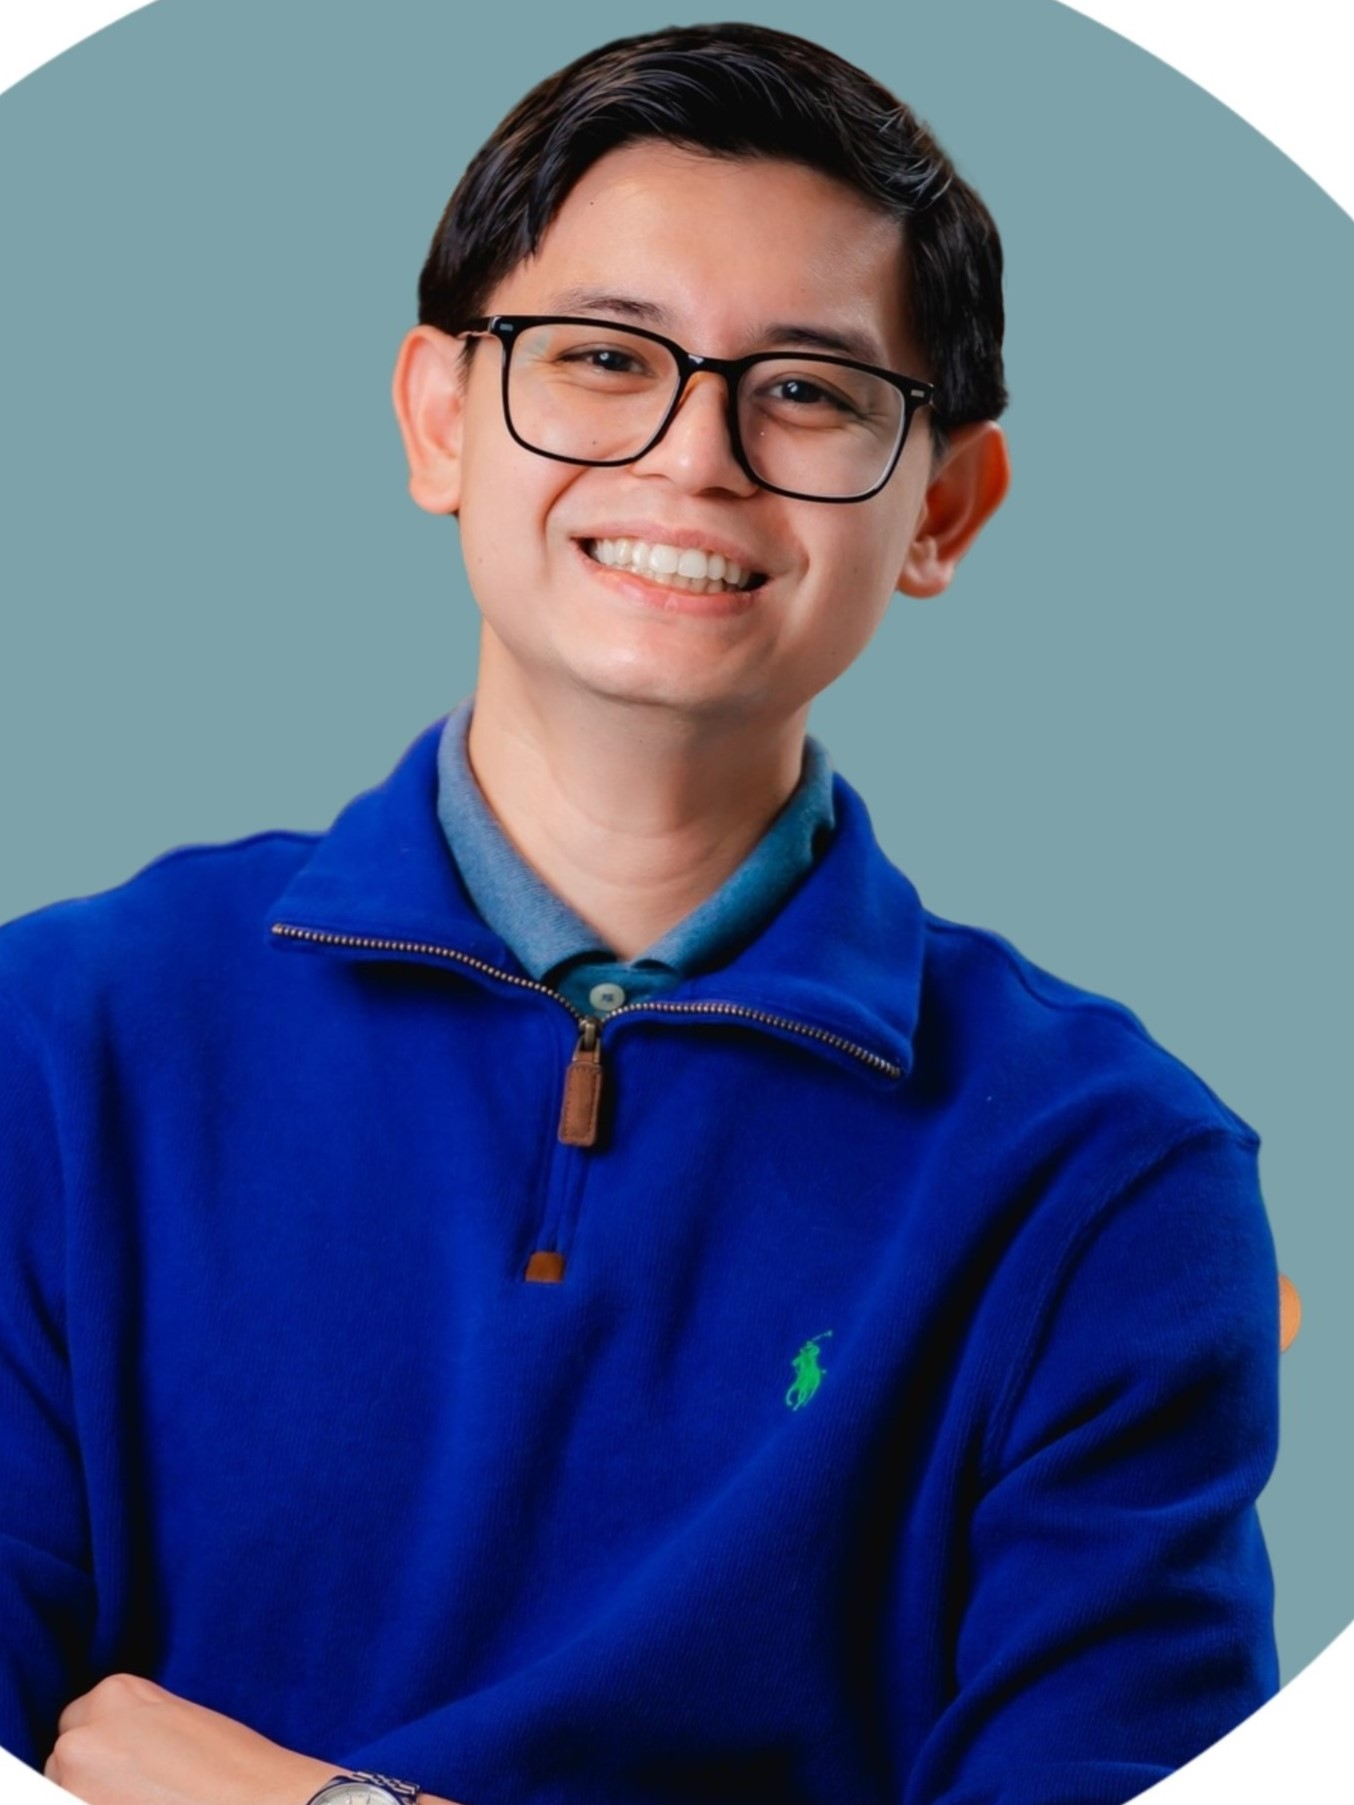
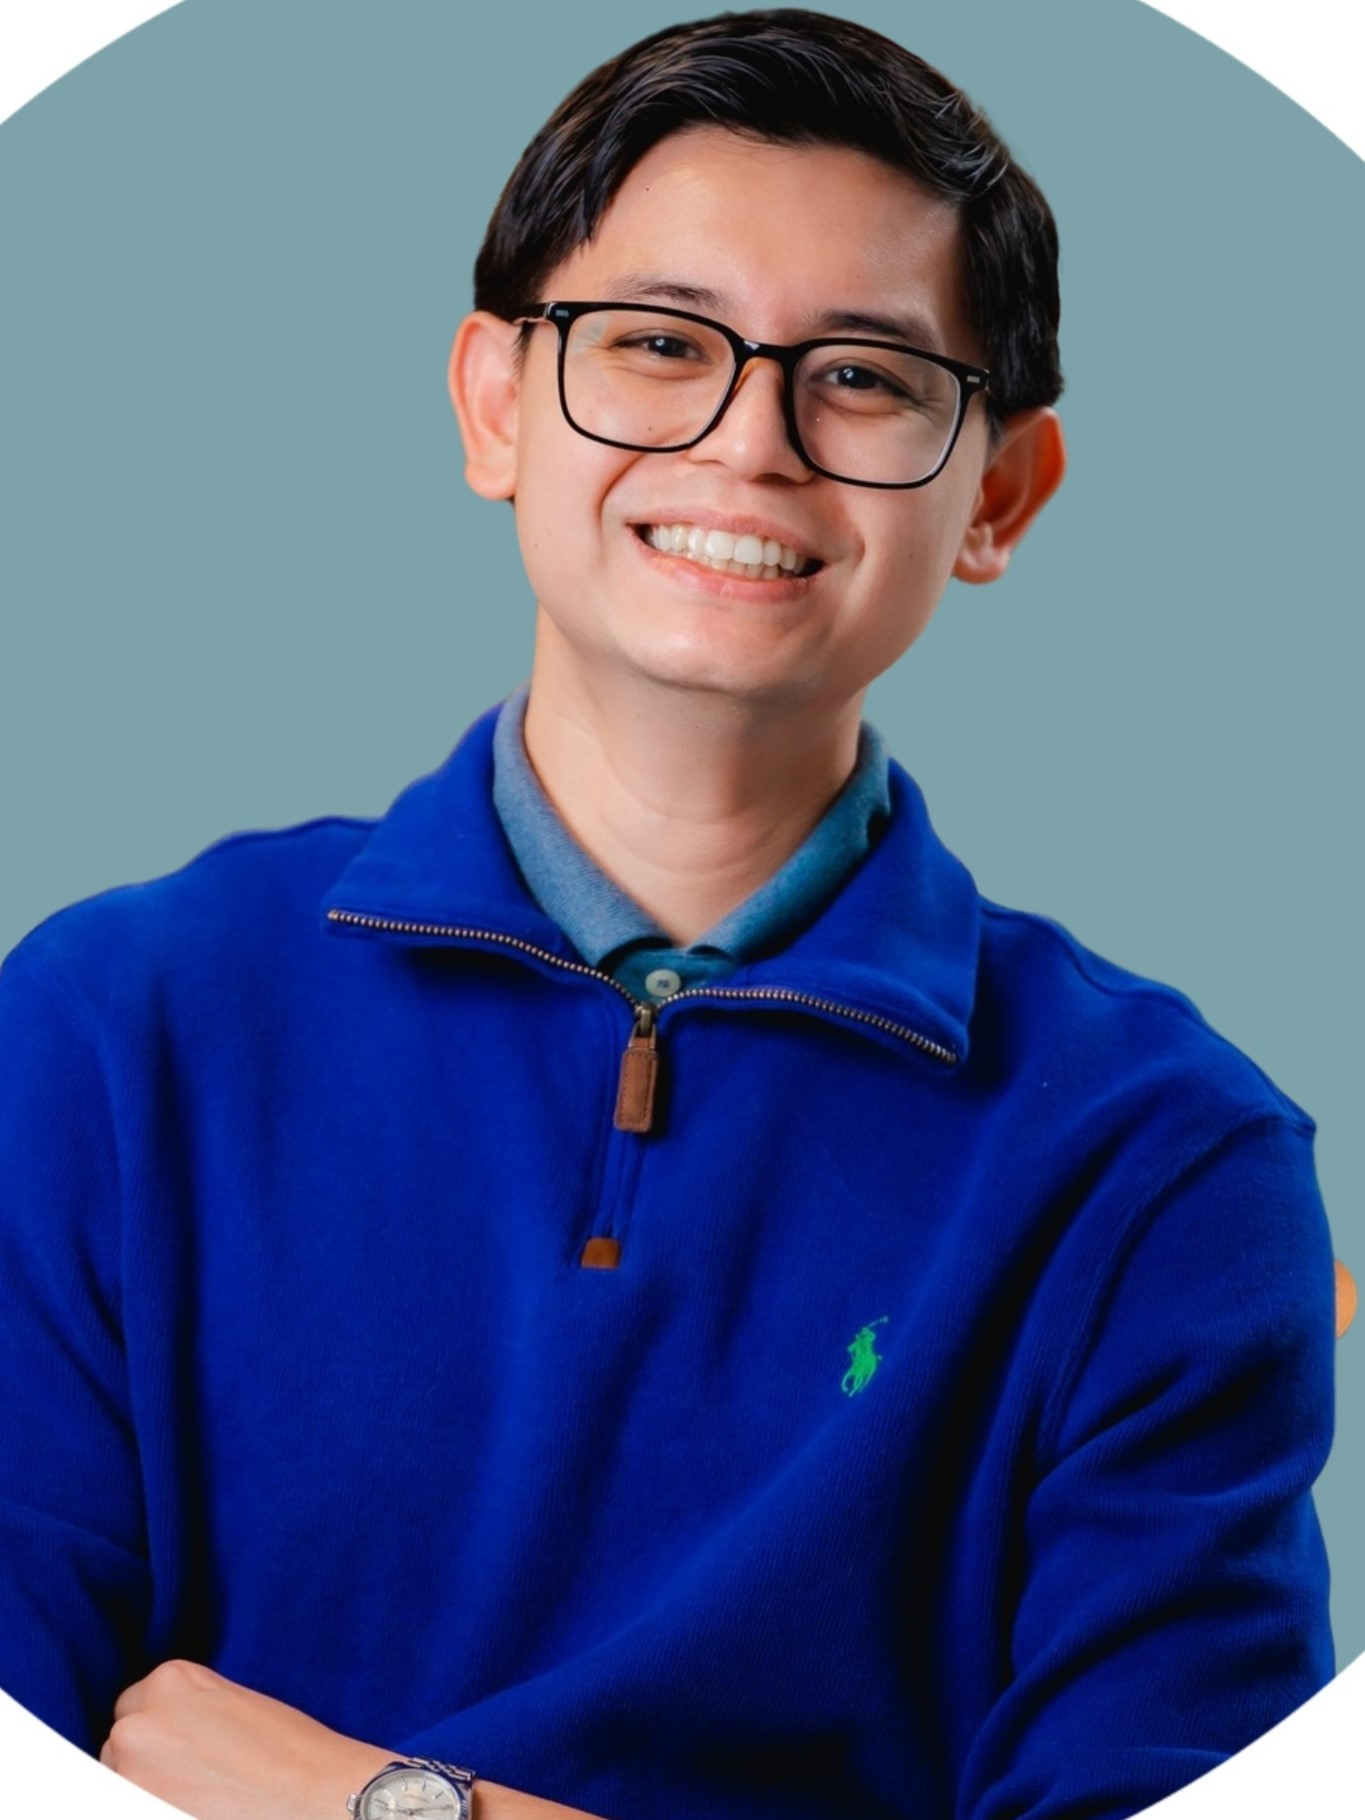
css update

diff --git a/assets/css/main.css b/assets/css/main.css
@@ -4724,7 +4724,19 @@ input, select, textarea {
 		}
 	}
 
-	
+	.responsive-image {
+  width: 360px;
+  height: 480px;
+  object-fit: cover;
+}
 
+/* Adjustments for screens smaller than 360px */
+@media (max-width: 500px) {
+  .responsive-image {
+    width: 44%;
+margin-top: 0
+    margin: 0 auto;
+  }
+}
 
 

diff --git a/index.html b/index.html
@@ -51,7 +51,7 @@
 					<div id="main">
 						<!-- Featured Post -->
 						<div class="image-txt-container">
-							<img src="images/pic2.jpeg" width="360" height="480">
+							<img src="images/pic2.jpeg" class="responsive-image">
 							<article class="post featured">
 
 								<center>
